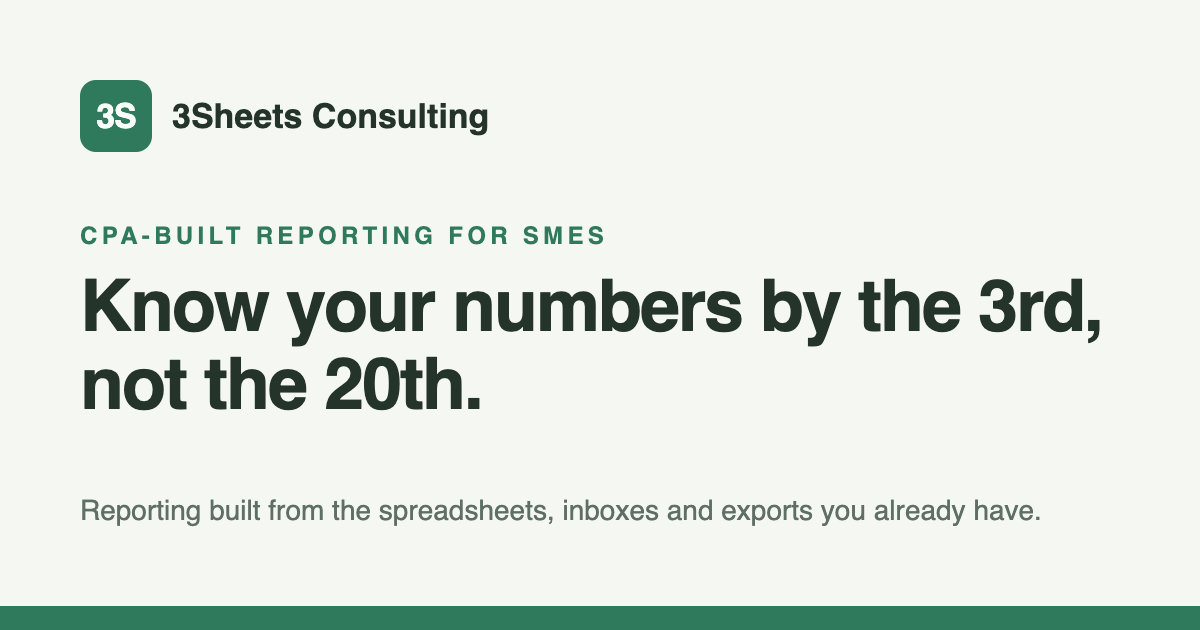
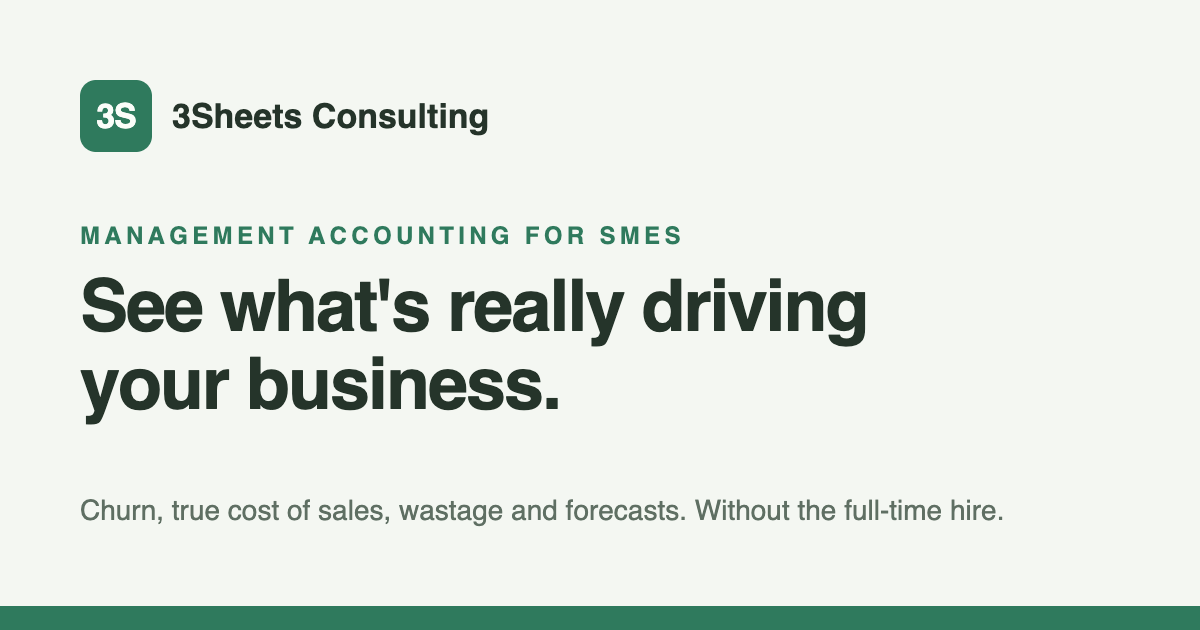
Reposition as part-time management accounting plus the data work
Packages the offer in three steps a client can start at any point:
1 Set up (fixed price: clean and connect data, agree definitions,
dashboards, automated updates), 2 Dig in (quoted projects: churn, true
cost of sales, pricing and margin, break-even, wastage, driver-based
forecasts), 3 Stay on top (monthly part-time management accountant).
- Hero: 'See what's really driving your business.', data + insight
  subheading, tiles for data, dashboards, true cost, forecasts.
- About: part-time-not-full-time card.
- Starter bundle framed as Set up; Contact keeps 'no major IT project'.
- Title, meta, share tags and share image updated.
- New placeholder [[MONTHLY_PRICE]]; package wording flagged to confirm.

Changed region(s): [[0.0617, 0.4222, 0.925, 0.6937], [0.0617, 0.7841, 0.8633, 0.8444], [0.0617, 0.3619, 0.5858, 0.3921]]

diff --git a/index.html b/index.html
@@ -3,8 +3,8 @@
   <head>
     <meta charset="UTF-8" />
     <meta name="viewport" content="width=device-width, initial-scale=1.0" />
-    <title>3Sheets Consulting | Know your numbers by the 3rd, not the 20th</title>
-    <meta name="description" content="CPA-built reporting for SMEs that shows what's really driving your sales and costs, built from the spreadsheets, inboxes and exports you already have. Know your numbers by the 3rd, not the 20th." />
+    <title>3Sheets Consulting | See what's really driving your business</title>
+    <meta name="description" content="Management accounting for SMEs, without the full-time hire. A CPA who ties customer churn, true cost of sales, wastage and forecasts into your financial performance, using the data you already have." />
 
     <!-- Favicon: SVG for modern browsers, PNG fallbacks for older ones / iOS. -->
     <link rel="icon" href="Assets/favicon.svg" type="image/svg+xml" />
@@ -20,16 +20,16 @@
     <meta property="og:type" content="website" />
     <meta property="og:site_name" content="3Sheets Consulting" />
     <meta property="og:locale" content="en_AU" />
-    <meta property="og:title" content="Know your numbers by the 3rd, not the 20th | 3Sheets Consulting" />
-    <meta property="og:description" content="CPA-built reporting on what's really driving your sales and costs, from the spreadsheets, inboxes and exports you already have. No new systems, no major IT project." />
+    <meta property="og:title" content="See what's really driving your business | 3Sheets Consulting" />
+    <meta property="og:description" content="Management accounting without the full-time hire: churn, true cost of sales, wastage and forecasts tied into your financial performance, from the data you already have." />
     <meta property="og:url" content="https://[[DOMAIN]]/" />
     <meta property="og:image" content="https://[[DOMAIN]]/Assets/og-image.png" />
     <meta property="og:image:width" content="1200" />
     <meta property="og:image:height" content="630" />
-    <meta property="og:image:alt" content="3Sheets Consulting: Know your numbers by the 3rd, not the 20th." />
+    <meta property="og:image:alt" content="3Sheets Consulting: See what's really driving your business." />
     <meta name="twitter:card" content="summary_large_image" />
-    <meta name="twitter:title" content="Know your numbers by the 3rd, not the 20th | 3Sheets Consulting" />
-    <meta name="twitter:description" content="CPA-built reporting on what's really driving your sales and costs, from the spreadsheets, inboxes and exports you already have. No new systems, no major IT project." />
+    <meta name="twitter:title" content="See what's really driving your business | 3Sheets Consulting" />
+    <meta name="twitter:description" content="Management accounting without the full-time hire: churn, true cost of sales, wastage and forecasts tied into your financial performance, from the data you already have." />
     <meta name="twitter:image" content="https://[[DOMAIN]]/Assets/og-image.png" />
 
     <link rel="stylesheet" href="styles.css" />
@@ -51,7 +51,7 @@
         <!-- Keep these links in the same order as the sections below. -->
         <nav class="nav-links" id="primary-nav" aria-label="Primary navigation">
           <a href="#experience">About</a>
-          <a href="#services">Problems solved</a>
+          <a href="#services">What I do</a>
           <a href="#risks">Why it matters</a>
           <a href="#reports">Reports</a>
           <a href="#offer">Starter bundle</a>
@@ -67,12 +67,13 @@
         <div class="container hero-grid">
           <div>
             <!-- [[LOCATION]]: replace "Australian" below with your city/region, e.g. "Brisbane". -->
-            <p class="eyebrow">CPA-built reporting for <span data-placeholder="[[LOCATION]]">Australian</span> SMEs</p>
-            <h1>Know your numbers by the 3rd, not the 20th.</h1>
+            <p class="eyebrow">Management accounting for <span data-placeholder="[[LOCATION]]">Australian</span> SMEs</p>
+            <h1>See what's really driving your business.</h1>
             <p class="hero-copy">
-              Most reports tell you what the totals were. I build reporting that shows what's driving them:
-              which customers, products, suppliers and hours. It's built from the spreadsheets, inboxes and exports you already have,
-              and refreshed on a schedule. No new systems, no major IT project.
+              Under the hood of every business are numbers your ledger doesn't show: customer churn, the true cost of each sale,
+              wastage, how many clients you need to cover costs. I clean and connect the data you already have, build the dashboards,
+              automate the updates, then tie it all to your financial performance the way a management accountant would.
+              Without the full-time hire.
             </p>
             <div class="hero-actions">
               <!-- [[BOOKING_URL]]: replace href="#contact" with your booking link. -->
@@ -101,19 +102,19 @@
 
             <div class="mini-grid">
               <div class="mini-metric">
-                <span class="mini-label">Sales</span>
-                <strong class="metric-value positive">Orders, cancellations, pipeline</strong>
+                <span class="mini-label">Data</span>
+                <strong class="metric-value positive">Cleaned, connected, automated</strong>
               </div>
               <div class="mini-metric">
-                <span class="mini-label">Purchasing</span>
-                <strong class="metric-value neutral">Late suppliers, cost changes</strong>
+                <span class="mini-label">Dashboards</span>
+                <strong class="metric-value neutral">Sales, purchasing, labour</strong>
               </div>
               <div class="mini-metric">
-                <span class="mini-label">Payroll &amp; overtime</span>
-                <strong class="metric-value positive">Overtime, labour cost, staffing</strong>
+                <span class="mini-label">True cost</span>
+                <strong class="metric-value positive">Churn, margin, wastage per sale</strong>
               </div>
               <div class="mini-metric">
-                <span class="mini-label">Budgets</span>
+                <span class="mini-label">Forecasts</span>
                 <strong class="metric-value neutral">Built on drivers, not last year + CPI</strong>
               </div>
             </div>
@@ -159,8 +160,8 @@
             <h2>A CPA who also builds the dashboards.</h2>
             <p class="lead">
               Dashboard builders often don't understand the numbers, and accountants often can't build the dashboards. I do both.
-              Most of my 20 years has been spent in sales and operational reporting: working out what's really driving revenue and cost,
-              not just reporting the totals.
+              Most of my 20 years has been spent in sales and operational reporting, tying non-financial data back to financial
+              performance to work out what's really driving revenue and cost.
             </p>
           </div>
 
@@ -183,48 +184,63 @@
             </article>
 
             <article class="info-card">
-              <h3>Budgets built on drivers</h3>
+              <h3>Part-time, not full-time</h3>
               <p>
-                Adding CPI to last year's actuals tells you nothing about why a cost moves.
-                I work back to the drivers (volumes, customers, supplier prices, freight, headcount and hours),
-                so your budget and forecast explain themselves and show which lever to pull.
+                Most small businesses need what a management accountant brings, but not 40 hours a week of it.
+                I work a piece at a time: a costing review this quarter, a forecast next, ongoing reporting if it helps,
+                and you swap pieces in and out as the business changes.
               </p>
             </article>
           </div>
         </div>
       </section>
 
-      <!-- SERVICES -->
+      <!-- WHAT I DO: the product package, in three steps. A client can start
+           at any step. Edit the lists below to change what's in each one. -->
       <section id="services" class="section section-alt">
         <div class="container">
           <div class="section-heading">
-            <p class="eyebrow">Problems solved</p>
-            <h2>The questions your ledger can't answer on its own.</h2>
+            <p class="eyebrow">What I do</p>
+            <h2>Data, dashboards and the management accounting to make sense of them.</h2>
+            <p>Three ways to work together. Start wherever the need is, and add or swap pieces as the business changes.</p>
           </div>
 
-          <div class="card-grid">
-            <article class="info-card">
-              <h3>Sales you can't explain</h3>
-              <p>
-                Revenue is up or down, but why? Reporting by customer, product, rep and territory, with orders, cancellations,
-                churn reasons and pipeline, so you can see which change is actually driving the result.
-              </p>
+          <div class="card-grid package-grid">
+            <article class="info-card package-card">
+              <span class="card-tag">1 · Set up</span>
+              <h3>Get the data right</h3>
+              <p class="package-price">Fixed price: the <a href="#offer">starter bundle</a></p>
+              <ul class="package-list">
+                <li>Clean and connect your spreadsheets, accounting exports, CRM, supplier files and emailed reports</li>
+                <li>Agree the definitions: what counts as a sale, a cancellation, an on-time delivery</li>
+                <li>Dashboards in Power BI or Excel: sales and pipeline, purchasing, labour and overtime</li>
+                <li>Automated updates: refreshed and emailed on a set schedule, with no re-keying</li>
+              </ul>
             </article>
-
-            <article class="info-card">
-              <h3>Budgets that are last year plus CPI</h3>
-              <p>
-                When next year's budget is this year's actuals plus a percentage, nobody can say what's driving cost.
-                I break costs back to what moves them, such as volumes, supplier prices, freight and hours, so you can see where to act.
-              </p>
+            <article class="info-card package-card">
+              <span class="card-tag">2 · Dig in</span>
+              <h3>Find what's driving the numbers</h3>
+              <p class="package-price">Quoted per project</p>
+              <ul class="package-list">
+                <li>Customer churn: who's leaving, why, and what it costs</li>
+                <li>True cost of sales: labour, freight, wastage, returns and credits per job, product or customer</li>
+                <li>Pricing and margin: which customers and products actually make money</li>
+                <li>Break-even and capacity: how many clients, jobs or units you need</li>
+                <li>Wastage and stock: write-offs, free-of-charge stock, late and short deliveries</li>
+                <li>Forecasts and budgets built on drivers, not last year's actuals plus CPI</li>
+              </ul>
             </article>
-
-            <article class="info-card">
-              <h3>Labour cost nobody can link to output</h3>
-              <p>
-                Hours, overtime, rosters and staffing set against what was produced, delivered or billed,
-                so labour reads as a cost per job or per unit rather than one big number that keeps growing.
-              </p>
+            <article class="info-card package-card">
+              <span class="card-tag">3 · Stay on top</span>
+              <h3>A part-time management accountant</h3>
+              <p class="package-price">Monthly: <span class="tbc" data-placeholder="[[MONTHLY_PRICE]]">Monthly price TBC</span></p>
+              <ul class="package-list">
+                <li>Month-end management pack, ready by the 3rd</li>
+                <li>Commentary on what moved and why, in plain English</li>
+                <li>Rolling forecast, updated as the drivers change</li>
+                <li>Dashboards and automations kept running and adjusted as the business changes</li>
+                <li>Swap the focus month to month: a costing review one month, a pricing check the next</li>
+              </ul>
             </article>
           </div>
         </div>
@@ -331,7 +347,7 @@
         <div class="container">
           <div class="section-heading">
             <p class="eyebrow">Starter bundle</p>
-            <h2>Essential reporting built from the tools you already use.</h2>
+            <h2>Set up, as a fixed-price starter bundle.</h2>
           </div>
 
           <div class="offer-summary">
@@ -373,7 +389,7 @@
           <dl class="scope-list">
             <div>
               <dt>What's included</dt>
-              <dd>The two dashboards and the automated update above. A Payroll &amp; overtime report can replace either dashboard. Driver-based budgets and forecasts are available as a separate piece of work.</dd>
+              <dd>The two dashboards and the automated update above. A Payroll &amp; overtime report can replace either dashboard, and any <a href="#services">Dig in</a> project can be swapped in or added later.</dd>
             </div>
             <div>
               <dt>Data sources</dt>
@@ -437,9 +453,10 @@
         <div class="container contact-box">
           <div>
             <p class="eyebrow">Contact</p>
-            <h2>Clearer numbers, without a major IT project.</h2>
+            <h2>A management accountant, without the full-time hire.</h2>
             <p>
-              Ideal for SMEs that rely on spreadsheets, can't explain why sales or costs moved, or whose budget is last year plus CPI.
+              Ideal for SMEs that want clean, automated reporting and what a management accountant brings (true costs, churn, forecasts, break-even) without a full-time hire.
+              No new systems and no major IT project: I work from the files and exports you already have.
               Book a free 20-minute data check and I'll tell you what's possible with the files you already have.
             </p>
             <!-- [[EMAIL]] and [[LINKEDIN_URL]]: replace each chip with a link,

diff --git a/styles.css b/styles.css
@@ -336,6 +336,15 @@ h2 { font-size: clamp(1.5rem, 2.4vw, 2rem); margin: 0 0 0.75rem; letter-spacing:
   padding: 0.1rem 0.5rem;
 }
 
+/* WHAT I DO — the three packages (Set up / Dig in / Stay on top). */
+.package-card { display: flex; flex-direction: column; }
+.package-card .card-tag { align-self: flex-start; }
+.package-price { margin: 0 0 0.6rem; font-weight: 600; color: var(--text); }
+.package-price a { color: var(--accent); text-underline-offset: 3px; }
+.package-list { margin: 0; padding-left: 1.1rem; color: var(--muted); }
+.package-list li { margin-bottom: 0.45rem; }
+.package-list li::marker { color: var(--accent); }
+
 /* STARTER BUNDLE — price/delivery strip and the scope list. */
 .offer-summary { display: flex; flex-wrap: wrap; gap: 1rem; margin-bottom: 1.25rem; }
 .offer-fact {
@@ -351,6 +360,7 @@ h2 { font-size: clamp(1.5rem, 2.4vw, 2rem); margin: 0 0 0.75rem; letter-spacing:
 .scope-list { display: grid; grid-template-columns: repeat(2, minmax(0, 1fr)); gap: 1rem 1.5rem; margin: 1.5rem 0 0; }
 .scope-list dt { font-weight: 700; }
 .scope-list dd { margin: 0.2rem 0 0; color: var(--muted); }
+.scope-list a { color: var(--accent); text-underline-offset: 3px; }
 
 /* HOW IT WORKS — what the client has to do. */
 .client-needs {

diff --git a/PLACEHOLDERS.md b/PLACEHOLDERS.md
@@ -47,6 +47,7 @@ When you're done, searching the repo for `[[` and for `class="tbc"` should only 
 | | | `game/game.js` → `CONFIG.domain` (end card text) | Game shows `nnbooth.github.io/3sheets` |
 | `[[PRICE]]` | Starter bundle price (AUD) | `index.html` → Starter bundle, "Price" box | "Price TBC" chip, followed by "AUD" |
 | `[[TIMEFRAME]]` | Starter bundle delivery time | `index.html` → Starter bundle, "Delivery" box | "Timeframe TBC" chip, followed by "from kickoff to go-live" |
+| `[[MONTHLY_PRICE]]` | Monthly fee for "Stay on top" (part-time management accountant) | `index.html` → What I do, package 3 | "Monthly price TBC" chip |
 | `[[DAYS]]` | Days to finish month-end with the reporting in place | `game/game.js` → `CONFIG.daysToClose` (summary: "October 2026 – month-end done in N days") | Game shows **3** (matches "by the 3rd") |
 
 ### Notes on specific tokens
@@ -78,8 +79,9 @@ These sentences are on the page now and make promises you should confirm or edit
 - **Price:** say whether `[[PRICE]]` includes or excludes GST.
 - **How it works:** "About an hour of your time for a kickoff call and read-only access to the files and exports you already have."
 
-- **New offer line (Starter bundle, What's included):** "Driver-based budgets and forecasts are available as a separate piece of work." Keep it only if you'll sell that.
 - **About section facts (from your resume):** the industries list; NYSE- and ASX-listed employers; and the Power BI platform used across Australia, New Zealand and the Pacific Islands. These describe your employment, not client results, so they're fine to keep, but check you're comfortable naming them publicly.
+
+- **The three packages (What I do):** 1 Set up (fixed price, the starter bundle), 2 Dig in (quoted per project), 3 Stay on top (monthly). Check what's listed in each, and that "quoted per project" and a monthly fee are how you want to sell them.
 
 ## TODO outside this repo
 
